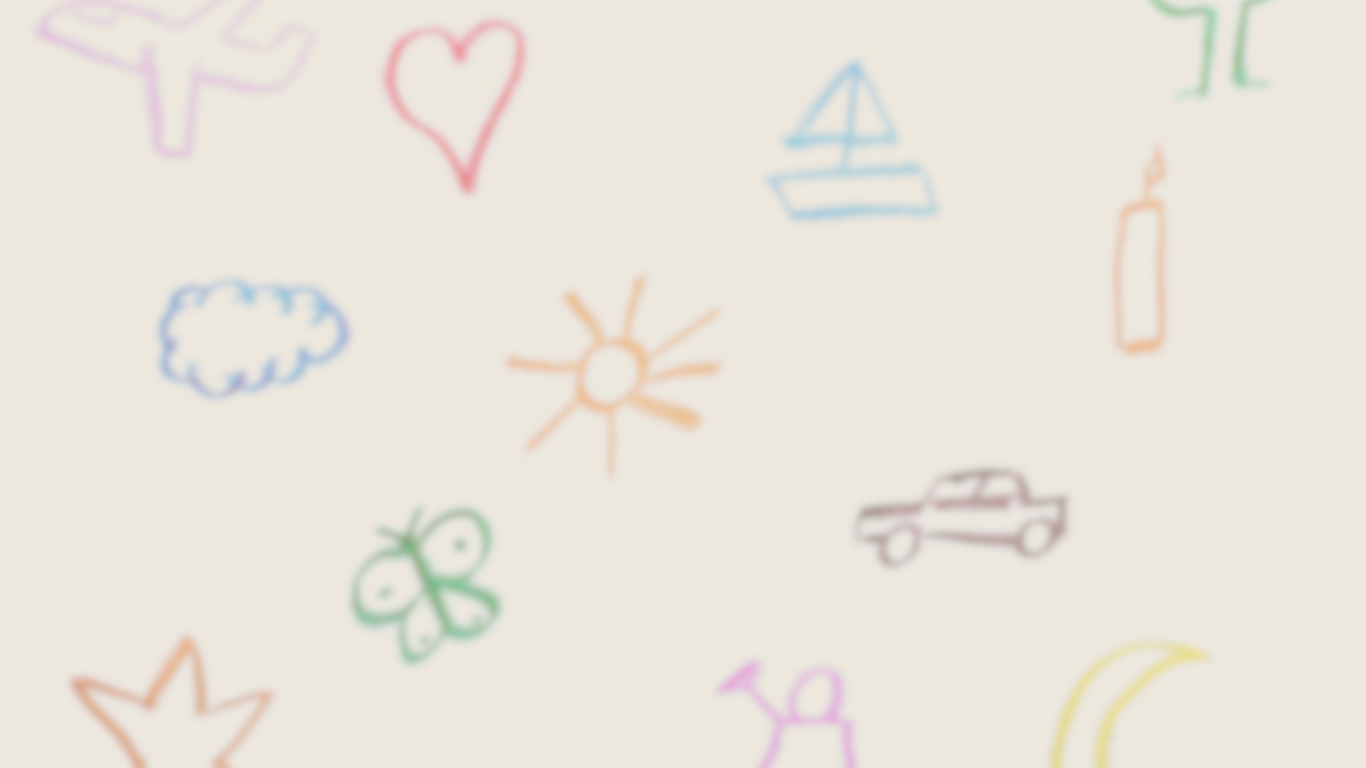
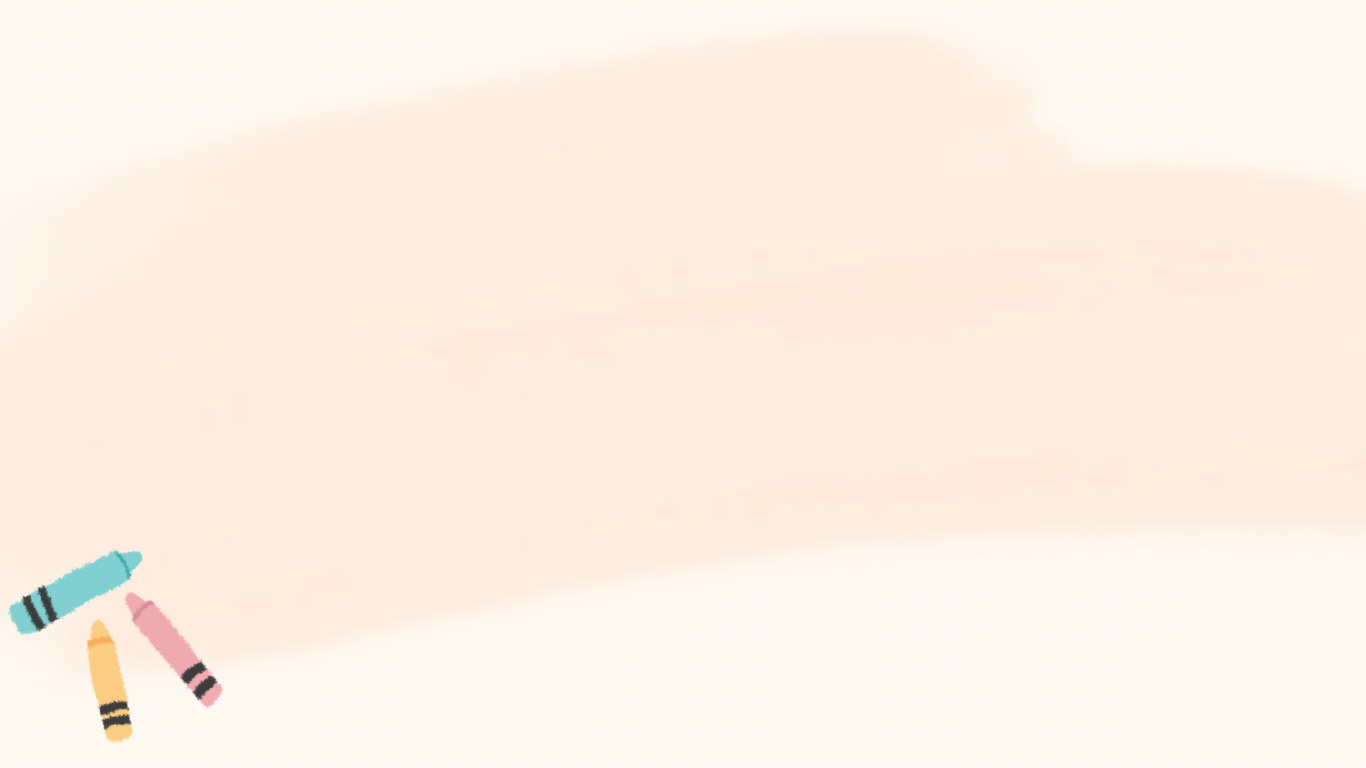
背景の調整

diff --git a/app/assets/stylesheets/application.css b/app/assets/stylesheets/application.css
@@ -17,7 +17,7 @@
 * { font-family: 'Kosugi Maru', sans-serif; }
 
 main {
-  background-image: url('bg_image1.png');
+  background-image: url('bg_image2.png');
   background-repeat: no-repeat;
   background-size: cover;
   flex: 1;
